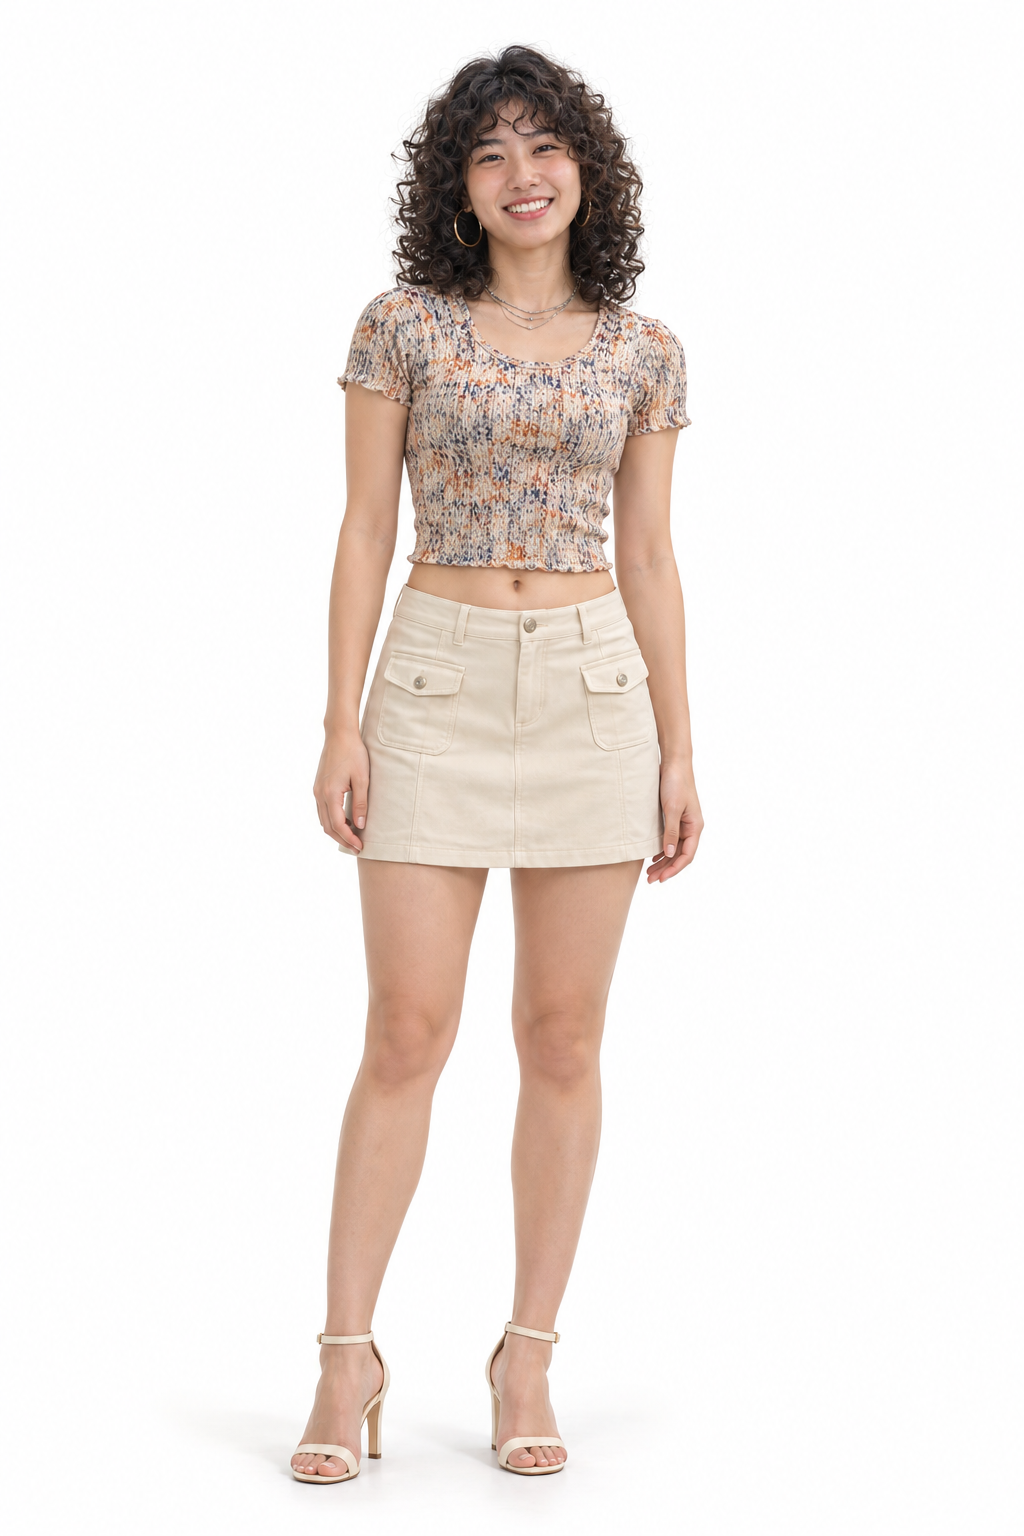
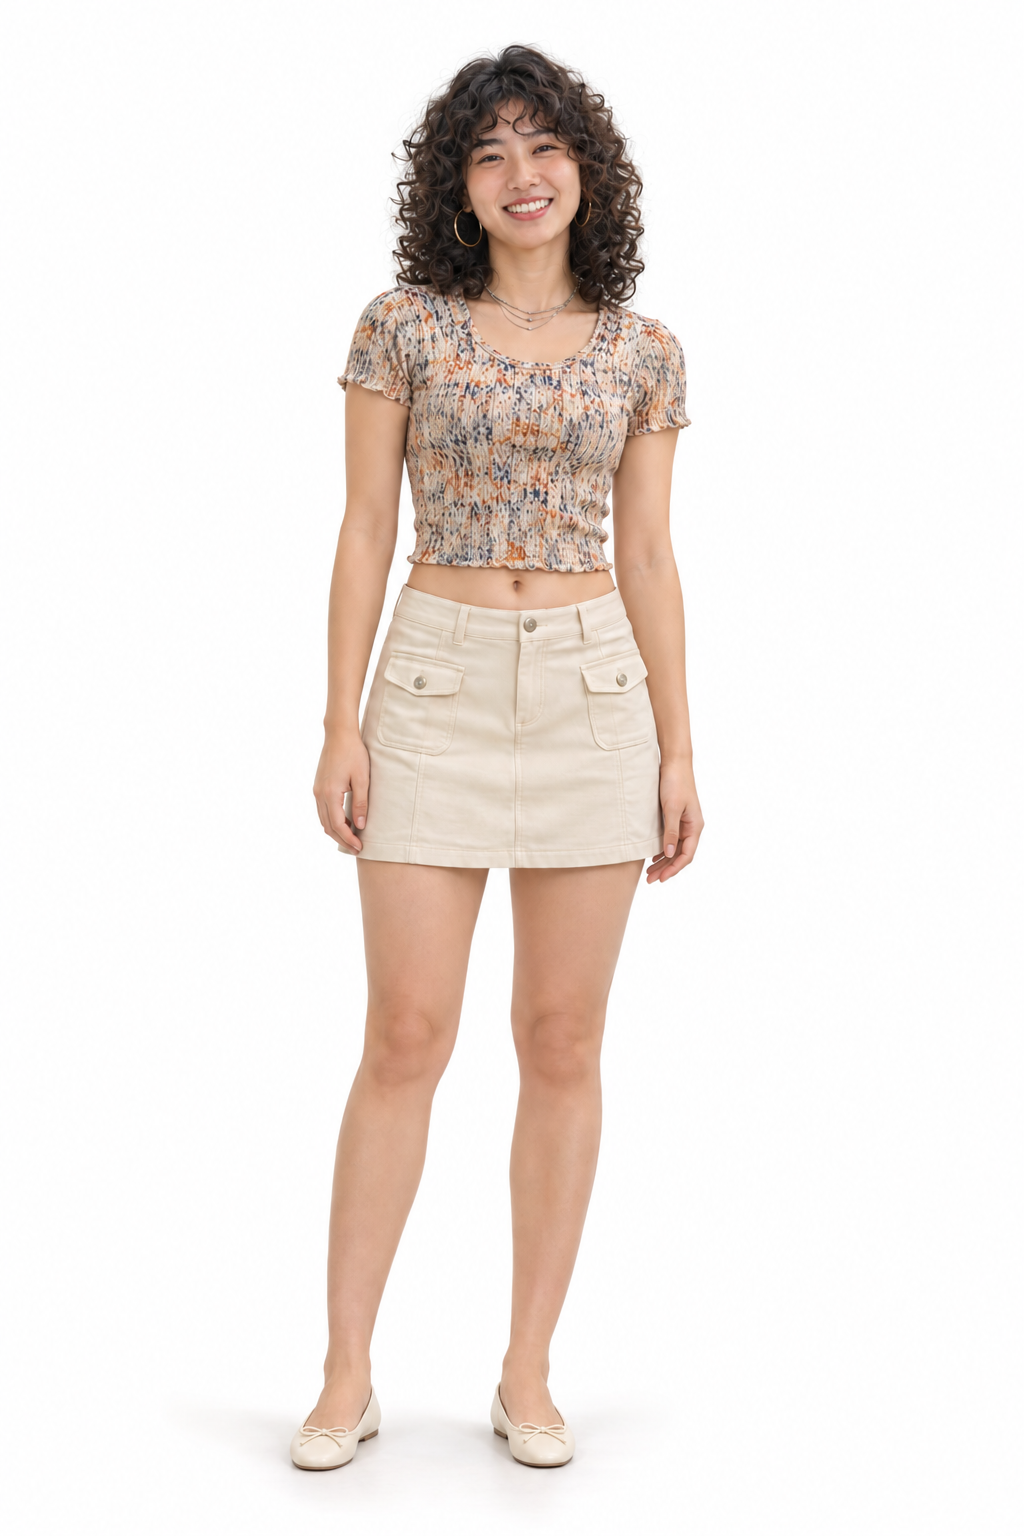
Update outfits and footwear for full-body portraits 57, 27 and 05

diff --git a/assets/fullbody/README.md b/assets/fullbody/README.md
@@ -4,9 +4,9 @@
 
 ## 配置
 
-- 裙裝／連身裙裝：48 人（75%）；褲裝：16 人（25%）。
-- 裙裝中膝上：43 人（89.6%，整數取最接近 90%）；其餘 5 人為及膝以下。
-- 有跟鞋：60 人（93.75%）；帆布鞋／運動鞋：4 人（08、24、40、56）。
+- 裙裝／連身裙裝：47 人（73.4%）；褲裝：17 人（26.6%），依後續指定將 27 改為牛仔短褲。
+- 裙裝中膝上：42 人（89.4%）；其餘 5 人為及膝以下。
+- 有跟鞋：59 人（92.2%）；帆布鞋／運動鞋：4 人（08、24、40、56）；平底鞋：1 人（05）。
 - 01～32 中短版露腰上衣：8 人（25%），編號 01、03、05、07、09、11、13、15。
 
 各圖為 AI 延伸創作，保留參考人物特徵，但並非真實人物攝影，也不保證臉部像素完全相同。服裝及對應資料見 [manifest.json](manifest.json)。
@@ -19,7 +19,7 @@
 | avatar-02 | ![頭像](../avatars/avatar-02.webp) | [查看全身照](avatar-02.png) | 裙裝・膝上 | 有跟鞋 |
 | avatar-03 | ![頭像](../avatars/avatar-03.webp) | [查看全身照](avatar-03.png) | 裙裝・膝上・短版露腰 | 有跟鞋 |
 | avatar-04 | ![頭像](../avatars/avatar-04.webp) | [查看全身照](avatar-04.png) | 褲裝 | 有跟鞋 |
-| avatar-05 | ![頭像](../avatars/avatar-05.webp) | [查看全身照](avatar-05.png) | 裙裝・膝上・短版露腰 | 有跟鞋 |
+| avatar-05 | ![頭像](../avatars/avatar-05.webp) | [查看全身照](avatar-05.png) | 裙裝・膝上・短版露腰 | 平底鞋 |
 | avatar-06 | ![頭像](../avatars/avatar-06.webp) | [查看全身照](avatar-06.png) | 連身裙裝・膝上 | 有跟鞋 |
 | avatar-07 | ![頭像](../avatars/avatar-07.webp) | [查看全身照](avatar-07.png) | 裙裝・膝上・短版露腰 | 有跟鞋 |
 | avatar-08 | ![頭像](../avatars/avatar-08.webp) | [查看全身照](avatar-08.png) | 褲裝 | 帆布鞋 |
@@ -41,7 +41,7 @@
 | avatar-24 | ![頭像](../avatars/avatar-24.webp) | [查看全身照](avatar-24.png) | 褲裝 | 運動鞋 |
 | avatar-25 | ![頭像](../avatars/avatar-25.webp) | [查看全身照](avatar-25.png) | 裙裝・膝上 | 有跟鞋 |
 | avatar-26 | ![頭像](../avatars/avatar-26.webp) | [查看全身照](avatar-26.png) | 裙裝・膝上 | 有跟鞋 |
-| avatar-27 | ![頭像](../avatars/avatar-27.webp) | [查看全身照](avatar-27.png) | 連身裙裝・膝上 | 有跟鞋 |
+| avatar-27 | ![頭像](../avatars/avatar-27.webp) | [查看全身照](avatar-27.png) | 褲裝・牛仔短褲 | 有跟鞋 |
 | avatar-28 | ![頭像](../avatars/avatar-28.webp) | [查看全身照](avatar-28.png) | 褲裝 | 有跟鞋 |
 | avatar-29 | ![頭像](../avatars/avatar-29.webp) | [查看全身照](avatar-29.png) | 裙裝・膝上 | 有跟鞋 |
 | avatar-30 | ![頭像](../avatars/avatar-30.webp) | [查看全身照](avatar-30.png) | 連身裙裝・膝上 | 有跟鞋 |
@@ -83,3 +83,7 @@
 ## 人物更新
 
 35、38 已重新設計頭像與全身照，以區別於 33 及彼此。35 為酒紅挑染長髮、精緻搖滾妝容、皮衣、中長格裙及有跟短靴；38 為栗色瀏海側馬尾、柔和妝容、珍珠耳環、奶油白襯衫、淺藍膝上裙與有跟鞋。原有服裝比例維持不變。
+
+## 指定服裝調整
+
+57 改為深藍連身裙、較纖細腿型與跟鞋；27 改為牛仔短褲；05 改為奶油色平底鞋。三人的原頭像保持不變。
